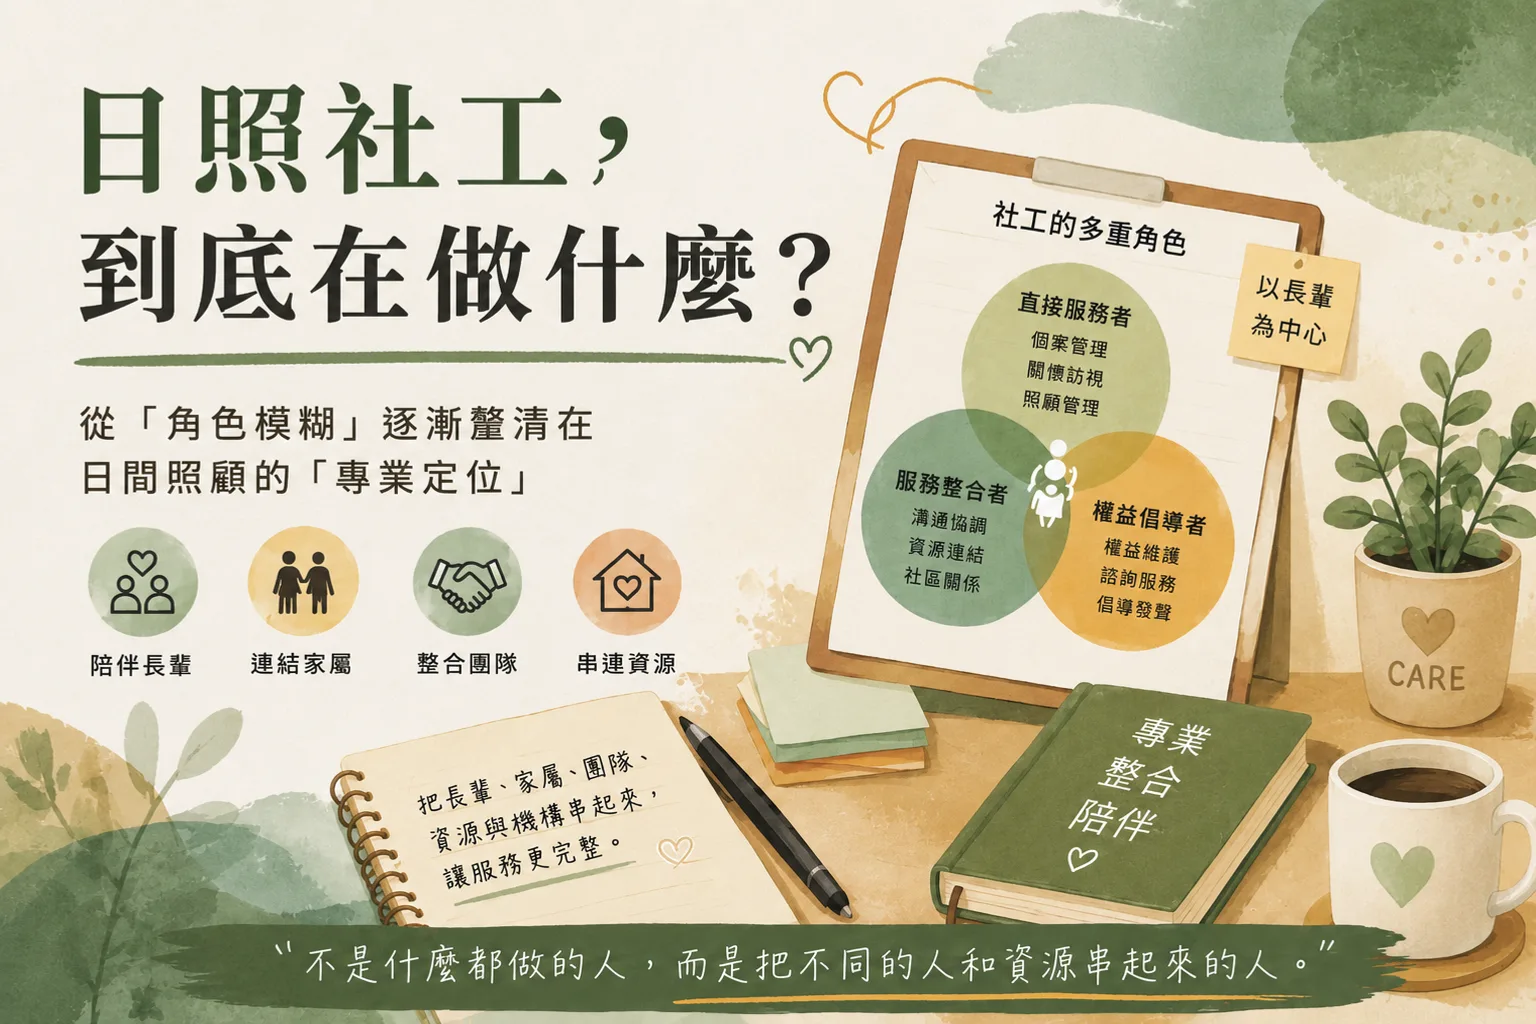
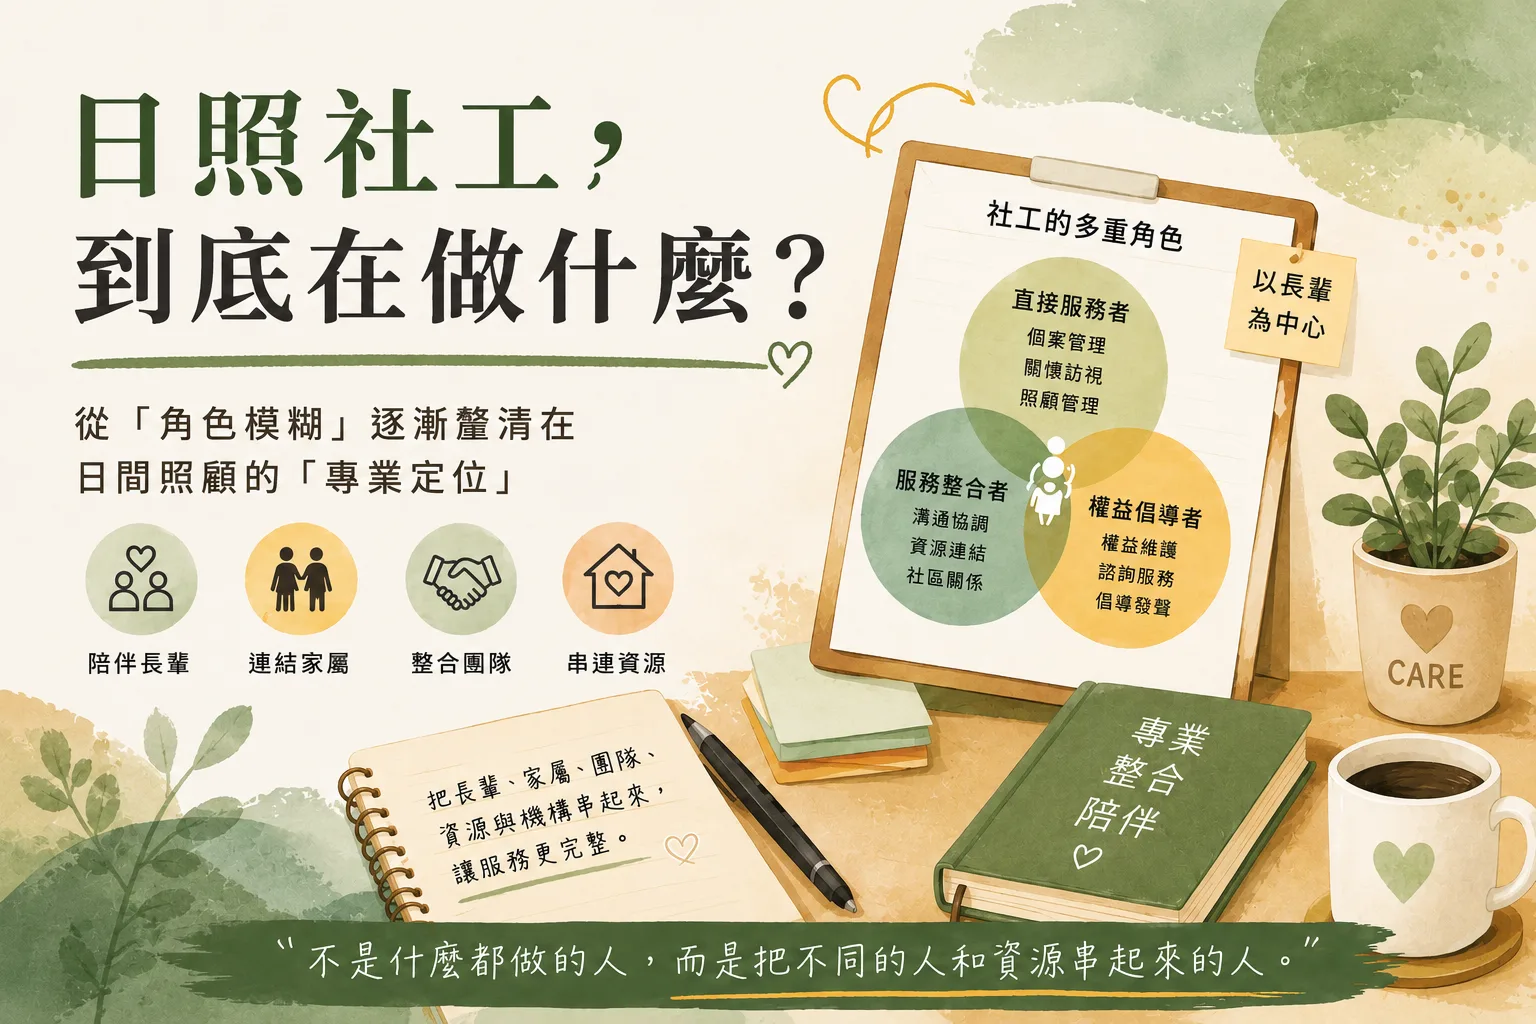
content: 〈日照社工，到底在做什麼？〉換上新版主視覺
構圖微調版。三圓圖的「個案管理」仍寫成「個寨管理」，與前一版相同，
這一版沒有修到——已回報，之後拿到修正版再換。

Changed region(s): [[0.0, 0.0, 1.0, 1.0], [0.0312, 0.0625, 0.4062, 0.1875], [0.5312, 0.0625, 0.625, 0.25]]

diff --git a/docs/20260808-day-care-social-worker-role/index.html b/docs/20260808-day-care-social-worker-role/index.html
@@ -63,11 +63,11 @@
 
       <section class="hero">
         <figure class="hero__figure">
-          <a class="hero__zoom" href="../assets/img/hero-day-care-social-worker-1536.webp?v=20ad0a0def" target="_blank" rel="noopener noreferrer" aria-describedby="hero-caption">
+          <a class="hero__zoom" href="../assets/img/hero-day-care-social-worker-1536.webp?v=ed3a3044f5" target="_blank" rel="noopener noreferrer" aria-describedby="hero-caption">
             <img
             class="hero__img"
-            src="../assets/img/hero-day-care-social-worker-1536.webp?v=20ad0a0def"
-            srcset="../assets/img/hero-day-care-social-worker-768.webp?v=eba2ad1f05 768w, ../assets/img/hero-day-care-social-worker-1152.webp?v=901bdd18dc 1152w, ../assets/img/hero-day-care-social-worker-1536.webp?v=20ad0a0def 1536w"
+            src="../assets/img/hero-day-care-social-worker-1536.webp?v=ed3a3044f5"
+            srcset="../assets/img/hero-day-care-social-worker-768.webp?v=61c4706177 768w, ../assets/img/hero-day-care-social-worker-1152.webp?v=46e5ed8bbb 1152w, ../assets/img/hero-day-care-social-worker-1536.webp?v=ed3a3044f5 1536w"
             sizes="(max-width: 44rem) 100vw, 42rem"
             alt="文章主視覺「日照社工，到底在做什麼？從『角色模糊』逐漸釐清在日間照顧的『專業定位』」。左側標題下方列出四個圖示：陪伴長輩、連結家屬、整合團隊、串連資源。右側畫著一塊寫有「社工的多重角色」的板夾，以三個交疊的圓呈現直接服務者（個案管理、關懷訪視、照顧管理）、服務整合者（溝通協調、資源連結、社區關係）與權益倡導者（權益維護、諮詢服務、倡導發聲），三圓交集處畫著一位社工陪伴長輩的圖示，旁邊貼著「以長輩為中心」的便條。桌面上有筆記本，寫著「把長輩、家屬、團隊、資源與機構串起來，讓服務更完整」，旁邊放著標示「專業・整合・陪伴」的書本、盆栽與咖啡杯。最下方標語為「不是什麼都做的人，而是把不同的人和資源串起來的人。」"
             width="1536"

diff --git a/docs/articles/index.html b/docs/articles/index.html
@@ -106,8 +106,8 @@
           <article>
             <a class="card__thumb" href="../20260808-day-care-social-worker-role/" tabindex="-1" aria-hidden="true">
               <img
-                src="../assets/img/hero-day-care-social-worker-1536.webp?v=20ad0a0def"
-                srcset="../assets/img/hero-day-care-social-worker-768.webp?v=eba2ad1f05 768w, ../assets/img/hero-day-care-social-worker-1152.webp?v=901bdd18dc 1152w, ../assets/img/hero-day-care-social-worker-1536.webp?v=20ad0a0def 1536w"
+                src="../assets/img/hero-day-care-social-worker-1536.webp?v=ed3a3044f5"
+                srcset="../assets/img/hero-day-care-social-worker-768.webp?v=61c4706177 768w, ../assets/img/hero-day-care-social-worker-1152.webp?v=46e5ed8bbb 1152w, ../assets/img/hero-day-care-social-worker-1536.webp?v=ed3a3044f5 1536w"
                 sizes="(max-width: 46rem) calc(100vw - 2rem), 27rem"
                 alt=""
                 width="1536"

diff --git a/docs/index.html b/docs/index.html
@@ -156,8 +156,8 @@
           <article>
             <a class="card__thumb" href="20260808-day-care-social-worker-role/" tabindex="-1" aria-hidden="true">
               <img
-                src="assets/img/hero-day-care-social-worker-1536.webp?v=20ad0a0def"
-                srcset="assets/img/hero-day-care-social-worker-768.webp?v=eba2ad1f05 768w, assets/img/hero-day-care-social-worker-1152.webp?v=901bdd18dc 1152w, assets/img/hero-day-care-social-worker-1536.webp?v=20ad0a0def 1536w"
+                src="assets/img/hero-day-care-social-worker-1536.webp?v=ed3a3044f5"
+                srcset="assets/img/hero-day-care-social-worker-768.webp?v=61c4706177 768w, assets/img/hero-day-care-social-worker-1152.webp?v=46e5ed8bbb 1152w, assets/img/hero-day-care-social-worker-1536.webp?v=ed3a3044f5 1536w"
                 sizes="(max-width: 46rem) calc(100vw - 2rem), 27rem"
                 alt=""
                 width="1536"
